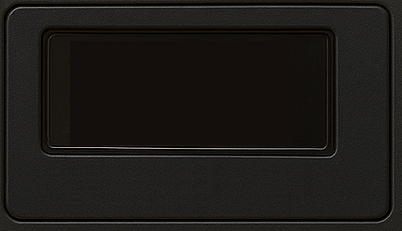
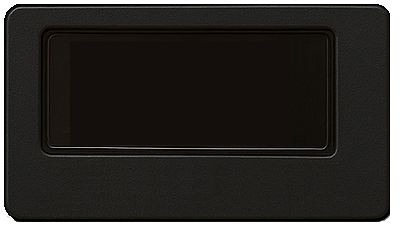
add digital vu-meter, minor changes to 7-segment display background

Changed region(s): [[0.0, 0.0, 1.0, 1.0]]

diff --git a/src/vu-meter.ts b/src/vu-meter.ts
@@ -1,0 +1,287 @@
+import { ActionHandlerEvent, handleAction, HomeAssistant } from 'custom-card-helpers';
+import { LitElement, html, css, nothing, TemplateResult } from 'lit';
+import { map } from "lit/directives/map.js";
+import { range } from "lit/directives/range.js";
+import { customElement, property } from 'lit/decorators.js';
+import { VUMeterEntityConfig } from './types';
+
+@customElement('vu-meter')
+export class VUMeter extends LitElement {
+  // Public properties
+  @property({ type: Object }) private hass?: HomeAssistant;
+
+  // Internal config storage
+  @property({ type: Object }) private config!: VUMeterEntityConfig;
+
+  private static readonly DEFAULT_MIN = 0;
+  private static readonly DEFAULT_MAX = 100;
+  private static readonly DEFAULT_GREEN_THRESHOLD = 70;
+  private static readonly DEFAULT_YELLOW_THRESHOLD = 90;
+  private static readonly DEFAULT_SEGMENTS = 20;
+
+  /**
+   * Calculate the percentage of the current value within the min-max range
+   */
+  private getPercentage(value: number): number {
+    const min = this.config.min ?? VUMeter.DEFAULT_MIN;
+    const max = this.config.max ?? VUMeter.DEFAULT_MAX;
+
+    if (max <= min) return 0;
+
+    const percentage = ((value - min) / (max - min)) * 100;
+    return Math.max(0, Math.min(100, percentage));
+  }
+
+  /**
+   * Determine the color zone for a segment based on its percentage
+   */
+  private getSegmentColor(segmentPercentage: number): 'green' | 'yellow' | 'red' {
+    const greenThreshold = this.config.green_threshold ?? VUMeter.DEFAULT_GREEN_THRESHOLD;
+    const yellowThreshold = this.config.yellow_threshold ?? VUMeter.DEFAULT_YELLOW_THRESHOLD;
+
+    if (segmentPercentage <= greenThreshold) {
+      return 'green';
+    } else if (segmentPercentage <= yellowThreshold) {
+      return 'yellow';
+    } else {
+      return 'red';
+    }
+  }
+
+  private _handleAction(ev: ActionHandlerEvent): void {
+    if (this.hass && this.config && ev.detail.action) {
+      handleAction(this, this.hass, this.config, ev.detail.action);
+    }
+  }
+
+  render(): TemplateResult | typeof nothing {
+    if (!this.config) {
+      return nothing;
+    }
+
+    const entityId = this.config.entity;
+    const state = this.hass && this.hass.states ? this.hass.states[entityId] : undefined;
+
+    if (!state) {
+      return html`
+        <div class="vu-meter error">
+          <div class="error-message">Entity not found</div>
+        </div>
+      `;
+    }
+
+    const rawValue = parseFloat(state.state);
+    if (isNaN(rawValue)) {
+      return html`
+        <div class="vu-meter error">
+          <div class="error-message">Invalid value</div>
+        </div>
+      `;
+    }
+
+    const percentage = this.getPercentage(rawValue);
+    const numSegments = this.config.segments ?? VUMeter.DEFAULT_SEGMENTS;
+    const segmentWidth = 100 / numSegments;
+    const min = this.config.min ?? VUMeter.DEFAULT_MIN;
+    const max = this.config.max ?? VUMeter.DEFAULT_MAX;
+
+    // Get unit from config or state attributes (config takes precedence)
+    const unit = this.config.unit || (state?.attributes?.unit_of_measurement as string | undefined);
+    const label = this.config.name || state.attributes.friendly_name || entityId;
+
+    return html`
+      <div class="vu-meter">
+        <div class="vu-meter-container">
+          <div class="vu-meter-bar">
+            ${map(range(numSegments), (i: number) => {
+              const segmentStartPercent = i * segmentWidth;
+              const segmentEndPercent = (i + 1) * segmentWidth;
+              const segmentMidPercent = (segmentStartPercent + segmentEndPercent) / 2;
+              const isLit = percentage >= segmentEndPercent;
+              const color = this.getSegmentColor(segmentMidPercent);
+
+              return html`
+                <div class="led ${color} ${isLit ? 'lit' : 'unlit'}"></div>
+              `;
+            })}
+          </div>
+          <div class="vu-meter-scale">
+            ${map(range(numSegments), (i: number) => {
+              const segmentValue = min + ((max - min) * (i + 1) / numSegments);
+              const showLabel = i === 0 || i === numSegments - 1 || (i + 1) % 2 === 0;
+
+              return html`
+                <div class="scale-label">
+                  ${showLabel ? Math.round(segmentValue) : ''}
+                </div>
+              `;
+            })}
+          </div>
+        </div>
+      </div>
+    `;
+  }
+
+  static styles = css`
+    :host {
+      width: 100%;
+      flex: 1 1 auto;
+      display: flex;
+      box-sizing: border-box;
+      min-height: 0;
+    }
+
+    .vu-meter {
+      display: flex;
+      flex-direction: column;
+      width: 100%;
+      height: 100%;
+      padding: 0.5em;
+      box-sizing: border-box;
+      gap: 0.5em;
+      justify-content: center;
+      /*background: linear-gradient(135deg, #1a1a1a 0%, #2d2d2d 100%);*/
+      border: 0.125em solid var(--metal-dark, #1a1a1a);
+      border-radius: 0.25em;
+    }
+
+    .vu-meter-container {
+      display: flex;
+      flex-direction: column;
+      align-items: center;
+      justify-content: center;
+      width: 100%;
+      height: 100%;
+      /*background: #0a0a0a;*/
+      border: 0.125em solid #000;
+      border-radius: 0.25em;
+      /*box-shadow: inset 0 0.125em 0.25em rgba(0, 0, 0, 0.8);*/
+      padding: 0.5em;
+      gap: 0.125em;
+      box-sizing: border-box;
+    }
+
+    .vu-meter-label {
+      display: flex;
+      justify-content: center;
+      font-size: 0.8em;
+    }
+
+    .vu-meter-bar {
+      display: flex;
+      flex-direction: row;
+      align-items: flex-start;
+      justify-content: space-between;
+      width: 100%;
+      gap: 0.25em;
+    }
+
+    .led {
+      width: 100%;
+      aspect-ratio: 1 / 1;
+      flex: 1 1 0;
+      max-width: 100%;
+      border-radius: 50%;
+      transition: all 0.15s ease-in-out;
+      border: 0.0625em solid rgba(0, 0, 0, 0.8);
+      box-sizing: border-box;
+    }
+
+    /* Unlit LEDs - very dim but visible */
+    .led.unlit {
+      opacity: 0.2;
+    }
+
+    .led.unlit.green {
+      background: radial-gradient(circle at 30% 30%, #1a3a1a, #0a1a0a);
+      box-shadow: inset 0 0.0625em 0.0625em rgba(0, 0, 0, 0.8);
+    }
+
+    .led.unlit.yellow {
+      background: radial-gradient(circle at 30% 30%, #3a3a1a, #1a1a0a);
+      box-shadow: inset 0 0.0625em 0.0625em rgba(0, 0, 0, 0.8);
+    }
+
+    .led.unlit.red {
+      background: radial-gradient(circle at 30% 30%, #3a1a1a, #1a0a0a);
+      box-shadow: inset 0 0.0625em 0.0625em rgba(0, 0, 0, 0.8);
+    }
+
+    /* Lit LEDs - bright and glowing */
+    .led.lit.green {
+      background: radial-gradient(circle at 30% 30%, #ccffcc, #00ff00, #00aa00);
+      box-shadow:
+        0 0 0.5em rgba(0, 255, 0, 0.8),
+        0 0 0.25em rgba(0, 255, 0, 0.6),
+        inset 0 0.0625em 0.125em rgba(255, 255, 255, 0.6),
+        inset 0 -0.0625em 0.0625em rgba(0, 0, 0, 0.3);
+    }
+
+    .led.lit.yellow {
+      background: radial-gradient(circle at 30% 30%, #ffffcc, #ffff00, #ccaa00);
+      box-shadow:
+        0 0 0.5em rgba(255, 255, 0, 0.8),
+        0 0 0.25em rgba(255, 255, 0, 0.6),
+        inset 0 0.0625em 0.125em rgba(255, 255, 255, 0.6),
+        inset 0 -0.0625em 0.0625em rgba(0, 0, 0, 0.3);
+    }
+
+    .led.lit.red {
+      background: radial-gradient(circle at 30% 30%, #ffcccc, #ff0000, #aa0000);
+      box-shadow:
+        0 0 0.5em rgba(255, 0, 0, 0.9),
+        0 0 0.25em rgba(255, 0, 0, 0.7),
+        inset 0 0.0625em 0.125em rgba(255, 255, 255, 0.6),
+        inset 0 -0.0625em 0.0625em rgba(0, 0, 0, 0.3);
+      animation: pulse-red 1s infinite alternate;
+    }
+
+    @keyframes pulse-red {
+      0% {
+        filter: brightness(1);
+      }
+      100% {
+        filter: brightness(1.2);
+      }
+    }
+
+    .vu-meter-scale {
+      display: flex;
+      flex-direction: row;
+      justify-content: space-between;
+      width: 100%;
+      gap: 0.25em;
+      box-sizing: border-box;
+    }
+
+    .scale-label {
+      flex: 1 1 0;
+      text-align: center;
+      font-size: 0.6em;
+      color: #ccc;
+      font-family: 'Courier New', monospace;
+      line-height: 1;
+      min-height: 0.8em;
+      box-sizing: border-box;
+    }
+
+    .vu-meter-unit {
+      display: flex;
+      justify-content: center;
+      font-size: 0.7em;
+    }
+
+    .vu-meter.error {
+      justify-content: center;
+      align-items: center;
+      background: linear-gradient(135deg, #3a1a1a 0%, #2d1d1d 100%);
+    }
+
+    .error-message {
+      color: #ff6b35;
+      font-family: 'Courier New', monospace;
+      font-size: 0.9em;
+      text-align: center;
+    }
+  `;
+}

diff --git a/src/types.ts b/src/types.ts
@@ -5,6 +5,7 @@ export enum DisplayType {
   FlipSwitch = 'flip_switch',
   IndicatorButton = 'indicator_button',
   Button = 'button',
+  VUMeter = 'vu_meter',
 }
 
 
@@ -24,6 +25,15 @@ export interface SevenSegmentEntityConfig extends EntityConfig {
   maximum_fraction_digits?: number;
   leading_zeros?: boolean;
   unit?: string;  // Optional unit label (e.g., '°C', '°F', '%')
+}
+
+export interface VUMeterEntityConfig extends EntityConfig {
+  min?: number;              // Minimum value (default: 0)
+  max?: number;              // Maximum value (default: 100)
+  green_threshold?: number;  // Percentage threshold for green/yellow (default: 70)
+  yellow_threshold?: number; // Percentage threshold for yellow/red (default: 90)
+  segments?: number;         // Number of segments to display (default: 20)
+  unit?: string;             // Optional unit label (e.g., 'dB', '%', 'V')
 }
 
 export interface EntityConfigRow {

diff --git a/src/retro-controlpanel-card.html b/src/retro-controlpanel-card.html
@@ -11,6 +11,7 @@
                                 ['seven_segment', () => html`<seven-segment-display .config=${cellEntity} .hass=${this._hass}></seven-segment-display>`],
                                 ['flip_switch',  () => html`<flip-switch .config=${cellEntity} .hass=${this._hass}></flip-switch>`],
                                 ['button',  () => html`<push-button .config=${cellEntity} .hass=${this._hass}></push-button>`],
+                                ['vu_meter',  () => html`<vu-meter .config=${cellEntity} .hass=${this._hass}></vu-meter>`],
                                 ['error',   () => html`<span class="icon">❌</span> Error`],
                             ],
                             () =>  // Default case

diff --git a/src/retro-controlpanel-card-editor.ts b/src/retro-controlpanel-card-editor.ts
@@ -150,6 +150,7 @@ export class RetroControlpanelCardEditor extends LitElement {
       seven_segment: 'Seven Segment Display',
       flip_switch: 'Flip Switch',
       indicator_button: 'Indicator Button',
+      vu_meter: 'VU Meter',
       button: 'Button',
     };
     return labels[type] || type;

diff --git a/src/retro-controlpanel-card.ts b/src/retro-controlpanel-card.ts
@@ -13,6 +13,7 @@ import { map } from 'lit/directives/map.js';
 import { range } from 'lit/directives/range.js';
 import './retro-label';
 import './push_button';
+import './vu-meter';
 
 @customElement('retro-controlpanel-card')
 class RetroControlpanelCard extends LitElement {

diff --git a/src/index.ts b/src/index.ts
@@ -2,3 +2,4 @@ import './retro-controlpanel-card';
 import './retro-controlpanel-card-editor';
 import './seven-segment-display';
 import './flip_switch';
+import './vu-meter';

diff --git a/README.MD b/README.MD
@@ -7,6 +7,9 @@
 - ~~Make it listen to rows~~
 - shave off the one pixel row above and below
 - VU meter
+- click actions
+- externalize html
+- externalize css as in https://github.com/maxwroc/lovelace-card-boilerplate/blob/master/src/custom-element/my-custom-card.ts
 - github actions
 - hacs custom repo
 - hacs
